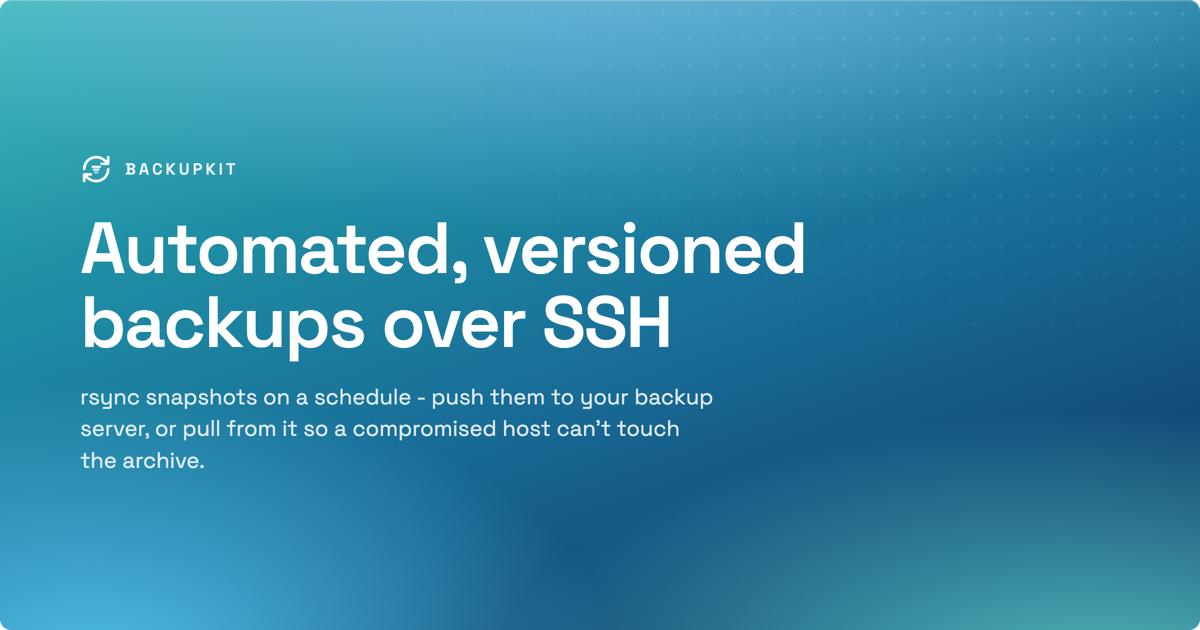
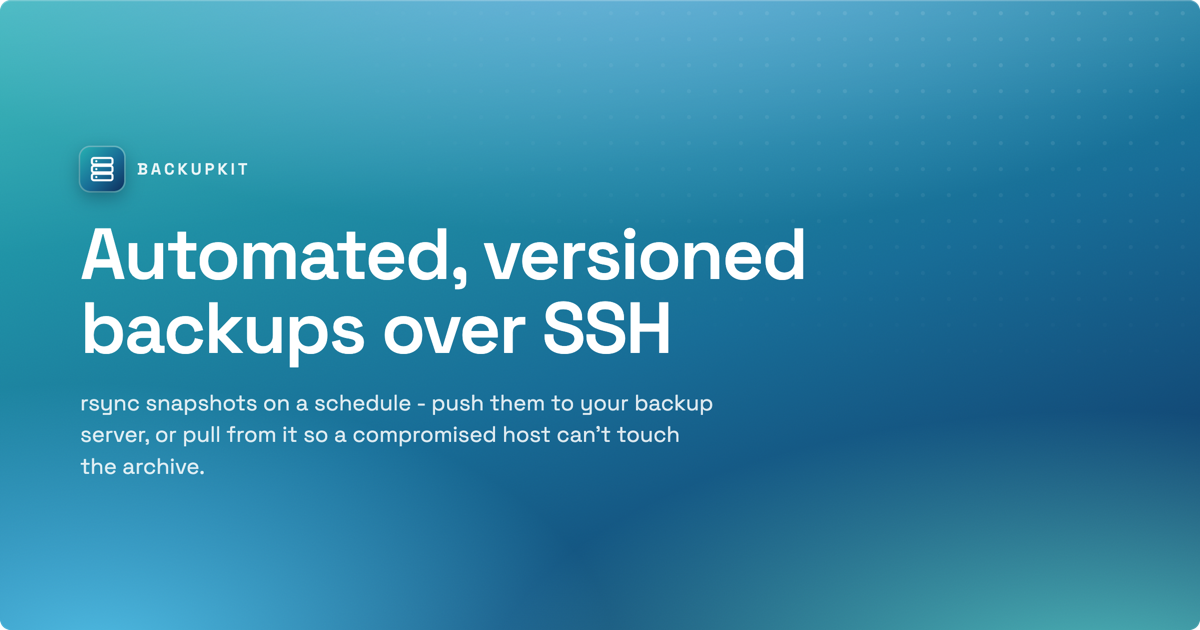
Switch the mark to a server rack, badge the hero with the app tile
Replaces the sync-ring mark with three rack units and an LED on each - the
literal backup server, and the option that survives 28px. The README hero now
carries the app tile (logo-tile.svg) instead of the bare symbol, with a rim
and a shadow so the tile reads against a gradient built from the same ramp.

Changed region(s): [[0.0617, 0.2413, 0.6783, 0.573], [0.0617, 0.6032, 0.6167, 0.754]]

diff --git a/claude/scribekit-hero/readme/hero.settings.js b/claude/scribekit-hero/readme/hero.settings.js
@@ -92,12 +92,19 @@ const fade = (t) => `rgba(${t}, 0)`;
  */
 export const brand = {
     font: { family: "Space Grotesk", url: "https://fonts.googleapis.com/css2?family=Space+Grotesk:wght@400;500;600;700&display=swap" },
-    // The project mark: a sync ring (push/pull) around a stack of snapshots fading into history.
-    // `bare` because the mark is already white - the default white tile would swallow it.
-    badge: { src: new URL("../../../assets/logo/logo.svg", import.meta.url).href, bare: true },
+    // The project mark - three rack units - as its app tile. `bare` because the tile carries its
+    // own rounded gradient background; the badge's default white tile would box it twice.
+    badge: { src: new URL("../../../assets/logo/logo-tile.svg", import.meta.url).href, bare: true },
     accent: "24, 108, 150",
     eyebrow: "BACKUPKIT",
     texture: { dots: 0.12, grain: 0.06 },
+    // The tile shares the hero's own gradient, so it needs a rim and a shadow to sit ON the hero
+    // rather than dissolve into it. The 10px radius tracks the tile SVG's own 23% corner at 44px.
+    css: `
+        .badge.bare { height: 44px; border-radius: 10px;
+            box-shadow: 0 6px 18px rgba(6, 26, 48, .38), 0 0 0 1.5px rgba(255, 255, 255, .3); }
+        .badge.bare img { border-radius: 10px; }
+    `,
 };
 
 /**
